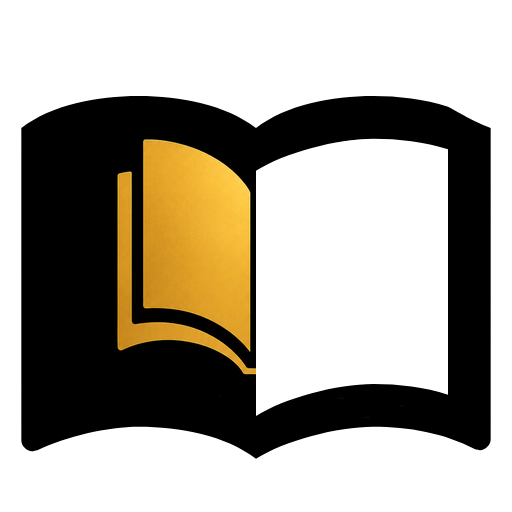
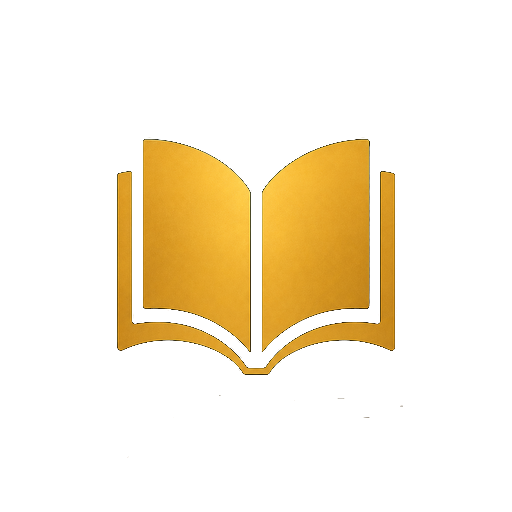
docs(store): use requested textured book without glow for feature graphic

diff --git a/scripts/generate_clean_feature_graphic.py b/scripts/generate_clean_feature_graphic.py
@@ -59,15 +59,8 @@ if os.path.exists(icon_path):
     icon_sz = 130
     icon_resized = icon.resize((icon_sz, icon_sz), Image.Resampling.LANCZOS)
     
-    # Glow behind icon
-    glow = Image.new('RGBA', (icon_sz + 40, icon_sz + 40), (0, 0, 0, 0))
-    gdraw = ImageDraw.Draw(glow)
-    gdraw.ellipse([10, 10, icon_sz + 30, icon_sz + 30], fill=(196, 162, 74, 45))
-    glow = glow.filter(ImageFilter.GaussianBlur(12))
-    
     icon_cx = 1024 // 2
     icon_y = card_margin_y + 35
-    bg.paste(glow, (icon_cx - (icon_sz + 40) // 2, icon_y - 20), glow)
     bg.paste(icon_resized, (icon_cx - icon_sz // 2, icon_y), icon_resized)
 
 # 5. Serif Typography (StudyMate branding)
